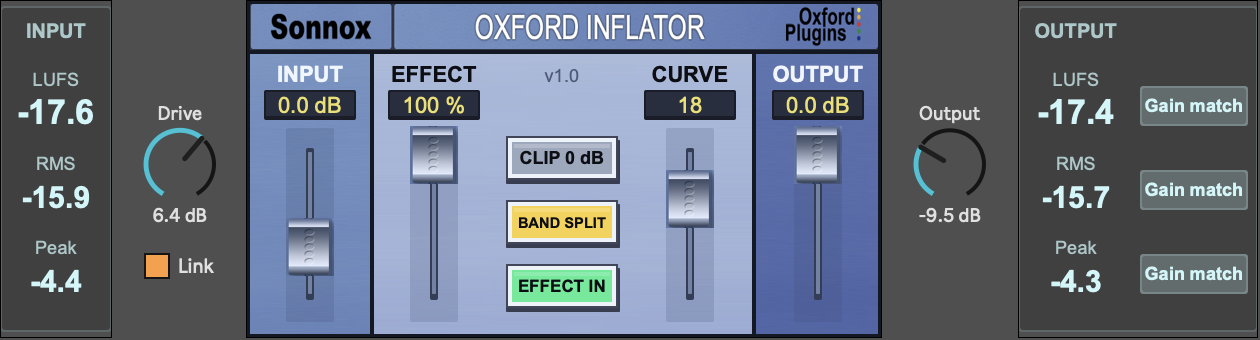
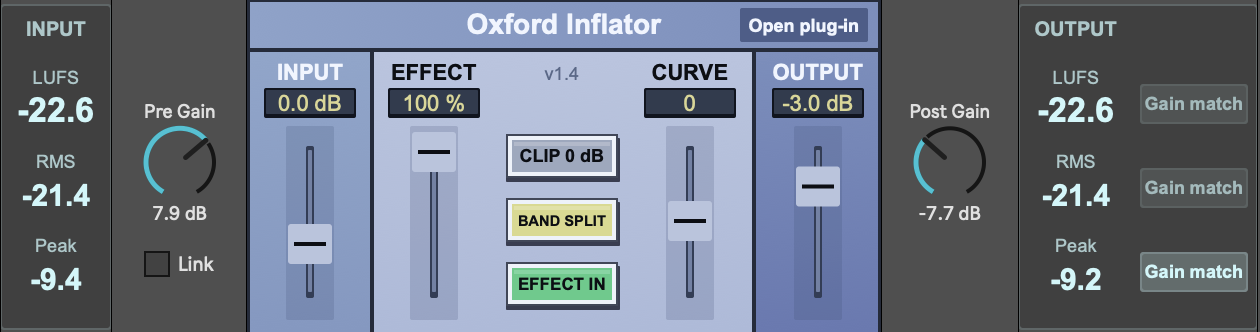
Show all three v1.4 wrappers and their Gumroad downloads

diff --git a/README.md b/README.md
@@ -1,18 +1,32 @@
 # M4L Wrappers
 
-Standalone Max for Live audio effects for controlling installed plug-ins from Ableton Live’s Device View. The first two devices host the VST3 editions of Wavesfactory Spectre and Sonnox Oxford Inflator. Starting with v1.3, each device ships as a single `.amxd` for macOS (Apple Silicon or Intel) and Windows x64 (Intel or AMD). Install the corresponding licensed VST3 on each computer, then open the device in Live with Max for Live.
+Control Soundtoys Decapitator, Wavesfactory Spectre and Sonnox Oxford Inflator from Ableton Live’s Device View. Each wrapper adds linked Pre Gain and Post Gain controls, input and output meters, and one-click gain matching by short-term LUFS, RMS or sample peak.
+
+Each v1.4 download contains a single `.amxd`. Install the corresponding licensed VST3 plug-in and open the wrapper in Live with Max for Live. The devices support macOS (Apple Silicon and Intel), with beta support for Windows x64.
 
 ## Spectre Wrapper
 
-Download: https://maxforlive.com/library/device/17366/spectre-wrapper
+Drag five colour-coded bands to shape saturation by frequency. Each band has its own saturation type and channel selection.
 
-![Spectre Wrapper in Ableton Live with five saturation bands and band 4 selected](docs/images/spectre.png)
+[Download on Gumroad](https://stephanterning.gumroad.com/l/m4l-spectre-wrapper) · [View on maxforlive.com](https://maxforlive.com/library/device/17366/spectre-wrapper)
+
+![Spectre Wrapper v1.4 with five saturation curves and the controls for band 3](docs/images/spectre.png)
 
 ## Oxford Inflator Wrapper
 
-Download: https://maxforlive.com/library/device/17365/oxford-inflator-wrapper
+Adjust Input, Effect, Curve and Output, and switch Clip 0 dB, Band Split and Effect In directly from the device panel.
 
-![Oxford Inflator Wrapper in Ableton Live with Drive Link and Band Split enabled](docs/images/oxford-inflator.png)
+[Download on Gumroad](https://stephanterning.gumroad.com/l/m4l-oxfird-inflator-wrapper) · [View on maxforlive.com](https://maxforlive.com/library/device/17365/oxford-inflator-wrapper)
+
+![Oxford Inflator Wrapper v1.4 with its four faders between the input and output meters](docs/images/oxford-inflator.png)
+
+## Decapitator Wrapper
+
+Choose among five saturation styles, push Drive or engage Punish, then shape the sound with the filters and Tone control. Use Mix to blend the processed signal with the dry input.
+
+[Download on Gumroad](https://stephanterning.gumroad.com/l/m4l-decapitator-wrapper)
+
+![Decapitator Wrapper v1.4 with style E selected, Punish engaged and automatic output trim](docs/images/decapitator.png)
 
 ## Build on macOS
 
